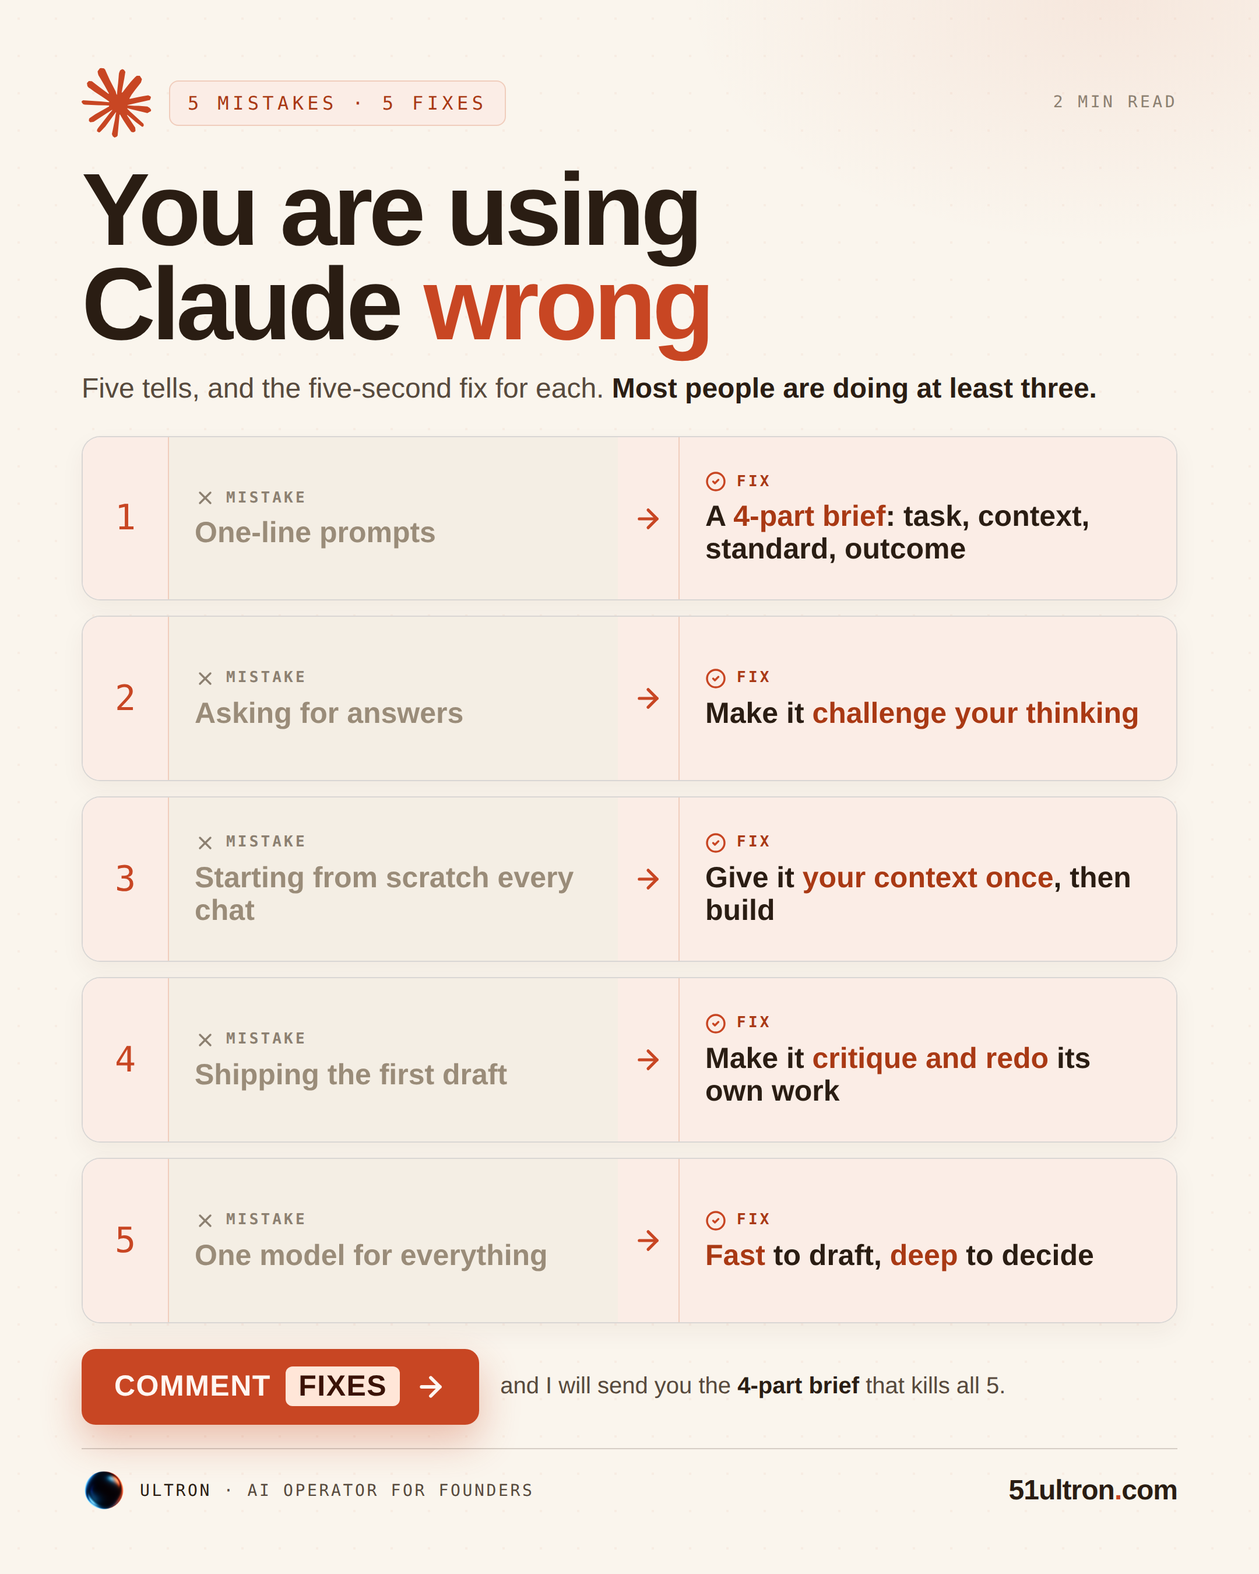
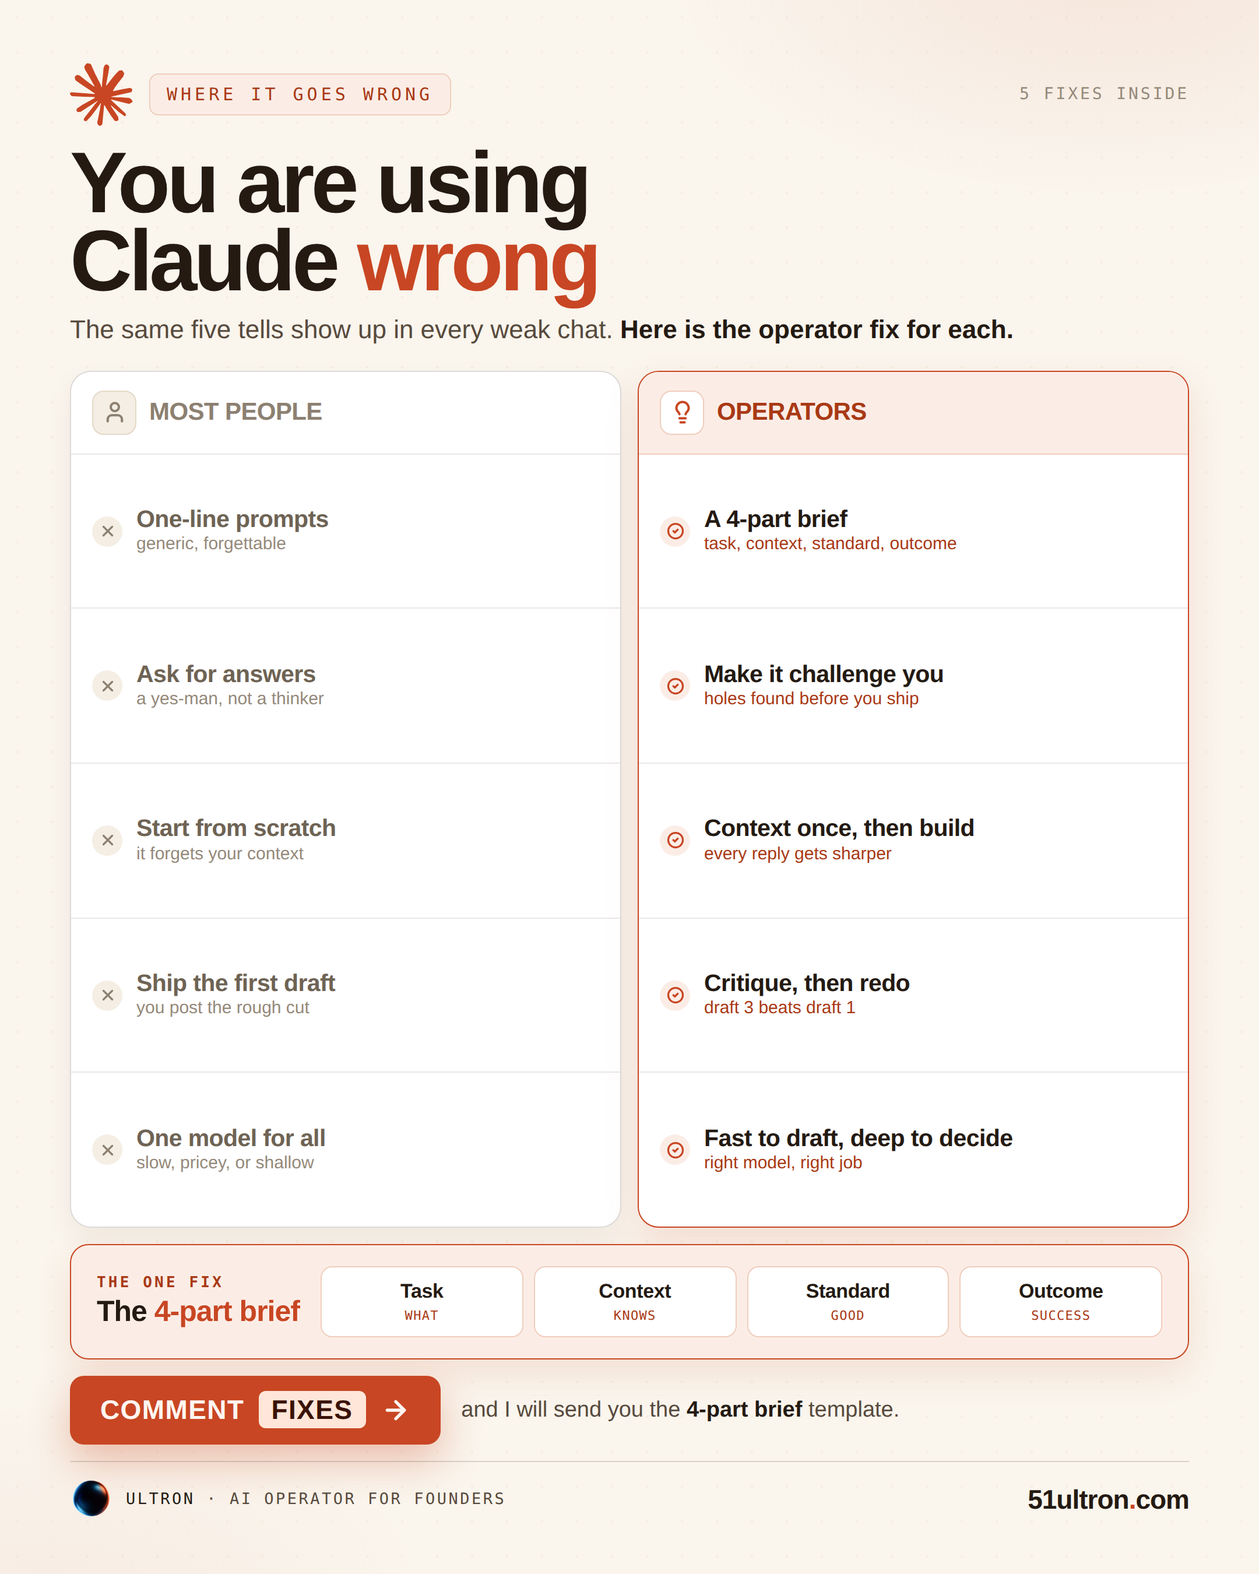
viral #1 infographic: rebuild to the master-claude richness bar (Design Architect)
The split-row version read flat/weak next to the existing master-claude infographic. Rebuilt
as a color-coded two-column comparison (Most people vs Operators) in packed white cards with
bold + payoff per row, plus a featured 4-part-brief band. Premium depth, dense, varied - light
REALNUMBERS. This is the design bar for #2-#5.

https://claude.ai/code/session_018fS7xMwDiJUxoNS3zo3BKw

diff --git a/content/claude-mistakes-editorial45-infographic.html b/content/claude-mistakes-editorial45-infographic.html
@@ -2,119 +2,128 @@
 <html lang="en">
 <head>
 <meta charset="UTF-8">
-<title>You're using Claude wrong - infographic - TikTok editorial 4:5 1080x1350 (light)</title>
+<title>You're using Claude wrong - infographic - TikTok editorial 4:5 1080x1350 (light, v2)</title>
 <style>
 @import 'https://fonts.googleapis.com/css2?family=DM+Sans:opsz,wght@9..40,400;9..40,500;9..40,600;9..40,700;9..40,800;9..40,900&family=DM+Mono:wght@400;500&display=swap';
-/* VIRAL #1 - "You're using Claude wrong" (5 mistakes -> 5 fixes). LIGHT / REALNUMBERS system
-   (cream + coral, white cards) to match the master-claude infographic. BESPOKE split-row layout
-   (mistake | arrow | fix) - distinct from the master-claude masonry. Coral = fix, muted = mistake
-   (no green). TikTok editorial 4:5, 1080x1350. DM Sans / DM Mono. The carousel ships in Dark Ultron. */
-:root{--cream:#FAF5ED;--cream-2:#F3EADD;--card:#FFFFFF;--ink:#2A1D13;--ink-2:#574A3D;--mut:#8C8071;
+/* VIRAL #1 v2 - "You're using Claude wrong". LIGHT / REALNUMBERS, rebuilt to the master-claude
+   richness bar: color-coded two-column comparison (MOST PEOPLE vs OPERATORS) in white cards with
+   per-item icons + payoffs, plus a featured 4-part-brief band. Premium depth, dense, varied.
+   Pure Claude. TikTok editorial 4:5, 1080x1350. DM Sans / DM Mono. Carousel ships dark. */
+:root{--cream:#FAF5ED;--cream-2:#F3EADD;--card:#FFFFFF;--ink:#241A12;--ink-2:#574A3D;--mut:#94897A;
 --org:#C84623;--org-deep:#A93914;--org-soft:#D2541F;
---rule:rgba(42,29,19,.11);--rule-2:rgba(42,29,19,.18);
---coral-bg:#FBEDE6;--coral-bd:#F0CDBC;--mist-bg:#F4EEE4;}
+--rule:rgba(36,26,18,.10);--rule-2:rgba(36,26,18,.16);
+--miss-bg:#F4EEE4;--miss-bd:#E4D8C6;--miss-tx:#8C8071;
+--coral-bg:#FBEDE6;--coral-bd:#F0CDBC;--snip:#FCF6F0;}
 *{margin:0;padding:0;box-sizing:border-box;}
 body{background:#0c0a09;display:flex;justify-content:center;padding:30px 0;font-family:'DM Sans',sans-serif;-webkit-font-smoothing:antialiased;}
 .slide{width:1080px;height:1350px;position:relative;overflow:hidden;background:var(--cream);color:var(--ink);
-  padding:58px 70px 52px;display:flex;flex-direction:column;}
+  padding:54px 60px 46px;display:flex;flex-direction:column;}
 .slide::before{content:'';position:absolute;inset:0;pointer-events:none;z-index:0;
-  background-image:radial-gradient(rgba(200,70,35,.05) 1.1px,transparent 1.2px);background-size:32px 32px;}
+  background-image:radial-gradient(rgba(200,70,35,.05) 1.1px,transparent 1.2px);background-size:30px 30px;}
 .slide::after{content:'';position:absolute;inset:0;pointer-events:none;z-index:0;
-  background:radial-gradient(ellipse 56% 26% at 88% 0%,rgba(200,70,35,.08),transparent 60%);}
+  background:radial-gradient(ellipse 58% 24% at 88% -2%,rgba(200,70,35,.09),transparent 60%),radial-gradient(ellipse 50% 20% at 4% 101%,rgba(200,70,35,.05),transparent 60%);}
 .slide>*{position:relative;z-index:2;}
-.spk{width:60px;height:60px;flex-shrink:0;}
-/* mast */
-.kick{display:flex;align-items:center;gap:15px;flex-shrink:0;}
-.kick .tag{font-family:'DM Mono',monospace;font-size:16px;font-weight:500;letter-spacing:.2em;color:var(--org-deep);
-  border:1px solid var(--coral-bd);background:var(--coral-bg);padding:9px 15px;border-radius:8px;}
-.kick .meta{margin-left:auto;font-family:'DM Mono',monospace;font-size:14px;letter-spacing:.16em;color:var(--mut);text-transform:uppercase;}
-/* hero */
-.h1{font-size:88px;font-weight:900;letter-spacing:-3.5px;line-height:.92;color:var(--ink);margin-top:22px;flex-shrink:0;}
+.spk{width:54px;height:54px;flex-shrink:0;}
+/* header */
+.kick{display:flex;align-items:center;gap:14px;flex-shrink:0;}
+.kick .tag{font-family:'DM Mono',monospace;font-size:15px;font-weight:500;letter-spacing:.2em;color:var(--org-deep);
+  border:1px solid var(--coral-bd);background:var(--coral-bg);padding:8px 14px;border-radius:8px;}
+.kick .meta{margin-left:auto;font-family:'DM Mono',monospace;font-size:14px;letter-spacing:.14em;color:var(--mut);text-transform:uppercase;}
+.h1{font-size:74px;font-weight:900;letter-spacing:-3px;line-height:.9;color:var(--ink);margin-top:16px;flex-shrink:0;}
 .h1 em{font-style:normal;color:var(--org);}
-.sub{font-size:24px;font-weight:500;color:var(--ink-2);line-height:1.32;margin-top:16px;flex-shrink:0;max-width:900px;}
+.sub{font-size:22px;font-weight:500;color:var(--ink-2);line-height:1.3;margin-top:12px;flex-shrink:0;}
 .sub b{color:var(--ink);font-weight:700;}
-/* split rows: mistake | arrow | fix */
-.rows{flex:1;display:flex;flex-direction:column;gap:13px;margin-top:24px;min-height:0;}
-.mrow{flex:1;display:flex;align-items:stretch;border:1px solid var(--rule-2);border-radius:16px;overflow:hidden;
-  background:var(--card);box-shadow:0 8px 20px rgba(80,40,20,.05);min-height:0;}
-.num{flex-shrink:0;width:74px;display:flex;align-items:center;justify-content:center;font-family:'DM Mono',monospace;
-  font-weight:500;font-size:30px;color:var(--org);background:var(--coral-bg);border-right:1px solid var(--coral-bd);}
-.side{flex:1;display:flex;flex-direction:column;justify-content:center;padding:16px 22px;min-width:0;}
-.side .lab{display:flex;align-items:center;gap:9px;font-family:'DM Mono',monospace;font-size:13px;font-weight:600;
-  letter-spacing:.16em;text-transform:uppercase;margin-bottom:7px;}
-.side .lab svg{width:18px;height:18px;stroke-width:2.3;fill:none;stroke-linecap:round;stroke-linejoin:round;}
-.side .tx{font-size:25px;font-weight:700;line-height:1.12;}
-.bad{background:var(--mist-bg);}
-.bad .lab{color:var(--mut);}.bad .lab svg{stroke:var(--mut);}
-.bad .tx{color:#9A8C79;}
-.fix{flex:1.12;background:var(--coral-bg);border-left:1px solid var(--coral-bd);}
-.fix .lab{color:var(--org-deep);}.fix .lab svg{stroke:var(--org);}
-.fix .tx{color:var(--ink);}
-.fix .tx b{color:var(--org-deep);font-weight:800;}
-.arrow{flex-shrink:0;width:52px;display:flex;align-items:center;justify-content:center;background:var(--coral-bg);}
-.arrow svg{width:26px;height:26px;stroke:var(--org);stroke-width:2.4;fill:none;stroke-linecap:round;stroke-linejoin:round;}
-/* cta */
-.cta{margin-top:22px;display:flex;align-items:center;gap:18px;flex-shrink:0;}
-.cta-chip{display:inline-flex;align-items:center;gap:13px;background:var(--org);border-radius:12px;padding:18px 28px;
-  box-shadow:0 14px 34px rgba(200,70,35,.32);}
-.cta-chip .t{font-size:25px;font-weight:900;letter-spacing:.03em;text-transform:uppercase;color:#FFF6F1;}
+/* two-column comparison */
+.cols{flex:1;display:grid;grid-template-columns:1fr 1fr;gap:14px;margin-top:20px;min-height:0;}
+.vbox{border-radius:18px;display:flex;flex-direction:column;overflow:hidden;min-height:0;box-shadow:0 10px 24px rgba(80,40,20,.06);}
+.vbox.miss{background:var(--card);border:1px solid var(--rule-2);}
+.vbox.win{background:var(--card);border:1.5px solid var(--org);box-shadow:0 12px 30px rgba(200,70,35,.13);}
+.vh{flex-shrink:0;display:flex;align-items:center;gap:11px;padding:16px 18px;border-bottom:1px solid var(--rule);}
+.vbox.win .vh{background:var(--coral-bg);border-bottom-color:var(--coral-bd);}
+.vh .vn{width:38px;height:38px;border-radius:10px;display:flex;align-items:center;justify-content:center;flex-shrink:0;}
+.vh .vn svg{width:21px;height:21px;stroke-width:2.3;fill:none;stroke-linecap:round;stroke-linejoin:round;}
+.miss .vh .vn{background:var(--miss-bg);border:1px solid var(--miss-bd);}.miss .vh .vn svg{stroke:var(--miss-tx);}
+.win .vh .vn{background:#fff;border:1px solid var(--coral-bd);}.win .vh .vn svg{stroke:var(--org);}
+.vh .vt{font-size:21px;font-weight:900;letter-spacing:-.3px;text-transform:uppercase;}
+.miss .vh .vt{color:var(--miss-tx);}.win .vh .vt{color:var(--org-deep);}
+.vlist{flex:1;display:flex;flex-direction:column;min-height:0;}
+.vit{flex:1;display:flex;align-items:center;gap:12px;padding:0 18px;border-bottom:1px solid var(--rule);}
+.vit:last-child{border-bottom:0;}
+.vit .d{width:26px;height:26px;border-radius:50%;flex-shrink:0;display:flex;align-items:center;justify-content:center;}
+.vit .d svg{width:15px;height:15px;stroke-width:2.6;fill:none;stroke-linecap:round;stroke-linejoin:round;}
+.miss .vit .d{background:var(--miss-bg);}.miss .vit .d svg{stroke:var(--miss-tx);}
+.win .vit .d{background:var(--coral-bg);}.win .vit .d svg{stroke:var(--org);}
+.vit .vc{min-width:0;}
+.vit .vc b{display:block;font-size:20.5px;font-weight:800;line-height:1.05;letter-spacing:-.3px;}
+.vit .vc span{display:block;font-size:15px;font-weight:500;line-height:1.12;margin-top:3px;}
+.miss .vit .vc b{color:#6E6354;}.miss .vit .vc span{color:var(--mut);}
+.win .vit .vc b{color:var(--ink);}.win .vit .vc span{color:var(--org-deep);}
+/* featured 4-part brief band */
+.feat{flex-shrink:0;margin-top:14px;display:flex;align-items:center;gap:18px;border:1.5px solid var(--org);border-radius:16px;
+  background:var(--coral-bg);padding:18px 22px;box-shadow:0 12px 30px rgba(200,70,35,.12);}
+.feat .fl{flex-shrink:0;}
+.feat .fk{font-family:'DM Mono',monospace;font-size:13px;font-weight:600;letter-spacing:.16em;text-transform:uppercase;color:var(--org-deep);}
+.feat .ft{font-size:25px;font-weight:900;letter-spacing:-.5px;color:var(--ink);margin-top:3px;}
+.feat .ft em{font-style:normal;color:var(--org);}
+.feat .chips{flex:1;display:flex;gap:9px;}
+.feat .chip{flex:1;background:#fff;border:1px solid var(--coral-bd);border-radius:10px;padding:11px 10px;text-align:center;}
+.feat .chip b{display:block;font-size:17px;font-weight:800;color:var(--ink);letter-spacing:-.2px;}
+.feat .chip span{display:block;font-family:'DM Mono',monospace;font-size:11px;letter-spacing:.06em;text-transform:uppercase;color:var(--org-deep);margin-top:4px;}
+/* cta + footer */
+.cta{margin-top:14px;display:flex;align-items:center;gap:18px;flex-shrink:0;}
+.cta-chip{display:inline-flex;align-items:center;gap:13px;background:var(--org);border-radius:12px;padding:16px 26px;box-shadow:0 14px 34px rgba(200,70,35,.32);}
+.cta-chip .t{font-size:23px;font-weight:900;letter-spacing:.03em;text-transform:uppercase;color:#FFF6F1;}
 .cta-chip .t em{font-style:normal;background:#FFE6D8;color:#3A1206;padding:3px 11px;border-radius:6px;margin-left:5px;}
-.cta-chip svg{width:27px;height:27px;stroke:#FFF6F1;stroke-width:2.6;fill:none;stroke-linecap:round;stroke-linejoin:round;}
-.cta .note{font-size:20px;color:var(--ink-2);font-weight:500;line-height:1.25;}
-.cta .note b{color:var(--ink);font-weight:700;}
-/* footer */
-.ftr{margin-top:20px;padding-top:17px;border-top:1.5px solid var(--rule-2);display:flex;align-items:center;justify-content:space-between;gap:16px;flex-shrink:0;}
-.ftr-l{display:flex;align-items:center;gap:12px;min-width:0;}
-.ftr-l img{width:38px;height:38px;border-radius:50%;flex-shrink:0;object-fit:cover;}
-.ftr-tx{font-family:'DM Mono',monospace;font-size:14px;font-weight:400;letter-spacing:.13em;text-transform:uppercase;color:var(--ink-2);white-space:nowrap;}
-.ftr-tx b{color:var(--ink);font-weight:500;}
-.ftr-url{font-size:24px;font-weight:900;letter-spacing:-.5px;color:var(--ink);flex-shrink:0;}
-.ftr-url em{font-style:normal;color:var(--org);}
+.cta-chip svg{width:25px;height:25px;stroke:#FFF6F1;stroke-width:2.6;fill:none;stroke-linecap:round;stroke-linejoin:round;}
+.cta .note{font-size:19px;color:var(--ink-2);font-weight:500;line-height:1.22;}.cta .note b{color:var(--ink);font-weight:700;}
+.ftr{margin-top:14px;padding-top:14px;border-top:1.5px solid var(--rule-2);display:flex;align-items:center;justify-content:space-between;gap:16px;flex-shrink:0;}
+.ftr-l{display:flex;align-items:center;gap:12px;min-width:0;}.ftr-l img{width:36px;height:36px;border-radius:50%;flex-shrink:0;object-fit:cover;}
+.ftr-tx{font-family:'DM Mono',monospace;font-size:13.5px;font-weight:400;letter-spacing:.13em;text-transform:uppercase;color:var(--ink-2);white-space:nowrap;}.ftr-tx b{color:var(--ink);font-weight:500;}
+.ftr-url{font-size:23px;font-weight:900;letter-spacing:-.5px;color:var(--ink);flex-shrink:0;}.ftr-url em{font-style:normal;color:var(--org);}
 </style>
 </head>
 <body>
 <div class="slide">
   <div class="kick">
     <svg class="spk" viewBox="0 0 1200 1200"><path fill="#C84623" d="M 233.96 800.21 L 468.64 668.54 L 472.59 657.10 L 468.64 650.74 L 457.21 650.74 L 417.99 648.32 L 283.89 644.70 L 167.60 639.87 L 54.93 633.83 L 26.58 627.79 L 0 592.75 L 2.74 575.28 L 26.58 559.25 L 60.72 562.23 L 136.19 567.38 L 249.42 575.19 L 331.57 580.03 L 453.26 592.67 L 472.59 592.67 L 475.33 584.86 L 468.72 580.03 L 463.57 575.19 L 346.39 495.79 L 219.54 411.87 L 153.10 363.54 L 117.18 339.06 L 99.06 316.11 L 91.25 266.01 L 123.87 230.09 L 167.68 233.07 L 178.87 236.05 L 223.25 270.20 L 318.04 343.57 L 441.83 434.74 L 459.95 449.80 L 467.19 444.64 L 468.08 441.02 L 459.95 427.41 L 392.62 305.72 L 320.78 181.93 L 288.81 130.63 L 280.35 99.87 C 277.37 87.22 275.19 76.59 275.19 63.62 L 312.32 13.21 L 332.86 6.60 L 382.39 13.21 L 403.25 31.33 L 434.01 101.72 L 483.87 212.54 L 561.18 363.22 L 583.81 407.92 L 595.89 449.32 L 600.40 461.96 L 608.21 461.96 L 608.21 454.71 L 614.58 369.83 L 626.34 265.61 L 637.77 131.52 L 641.72 93.75 L 660.40 48.48 L 697.53 24.00 L 726.52 37.85 L 750.36 72 L 747.06 94.07 L 732.89 186.20 L 705.10 330.52 L 686.98 427.17 L 697.53 427.17 L 709.61 415.09 L 758.50 350.17 L 840.64 247.49 L 876.89 206.74 L 919.17 161.72 L 946.31 140.30 L 997.61 140.30 L 1035.38 196.43 L 1018.47 254.42 L 965.64 321.42 L 921.83 378.20 L 859.01 462.77 L 819.79 530.42 L 823.41 535.81 L 832.75 534.93 L 974.66 504.72 L 1051.33 490.87 L 1142.82 475.17 L 1184.21 494.50 L 1188.72 514.15 L 1172.46 554.34 L 1074.60 578.50 L 959.84 601.45 L 788.94 641.88 L 786.85 643.41 L 789.26 646.39 L 866.26 653.64 L 899.19 655.41 L 979.81 655.41 L 1129.93 666.60 L 1169.15 692.54 L 1192.67 724.27 L 1188.72 748.43 L 1128.32 779.19 L 1046.82 759.87 L 856.59 714.60 L 791.36 698.34 L 782.34 698.34 L 782.34 703.73 L 836.70 756.89 L 936.32 846.85 L 1061.07 962.82 L 1067.44 991.49 L 1051.41 1014.12 L 1034.50 1011.70 L 924.89 929.23 L 882.60 892.11 L 786.85 811.49 L 780.48 811.49 L 780.48 819.95 L 802.55 852.24 L 919.09 1027.41 L 925.13 1081.13 L 916.67 1098.60 L 886.47 1109.15 L 853.29 1103.11 L 785.07 1007.36 L 714.68 899.52 L 657.91 802.87 L 650.98 806.82 L 617.48 1167.70 L 601.77 1186.15 L 565.53 1200 L 535.33 1177.05 L 519.30 1139.92 L 535.33 1066.55 L 554.66 970.79 L 570.36 894.68 L 584.54 800.13 L 592.99 768.72 L 592.43 766.63 L 585.50 767.52 L 514.23 865.37 L 405.83 1011.87 L 320.05 1103.68 L 299.52 1111.81 L 263.92 1093.37 L 267.22 1060.43 L 287.11 1031.11 L 405.83 880.11 L 477.42 786.52 L 523.65 732.48 L 523.33 724.67 L 520.59 724.67 L 205.29 929.40 L 149.15 936.64 L 124.99 914.01 L 127.97 876.89 L 139.41 864.81 L 234.20 799.57 Z"/></svg>
-    <span class="tag">5 MISTAKES &middot; 5 FIXES</span><span class="meta">2 min read</span>
+    <span class="tag">WHERE IT GOES WRONG</span><span class="meta">5 fixes inside</span>
   </div>
   <div class="h1">You are using<br>Claude <em>wrong</em></div>
-  <div class="sub">Five tells, and the five-second fix for each. <b>Most people are doing at least three.</b></div>
-  <div class="rows">
-    <div class="mrow">
-      <div class="num">1</div>
-      <div class="side bad"><div class="lab"><svg viewBox="0 0 24 24"><path d="M18 6 6 18"/><path d="m6 6 12 12"/></svg>Mistake</div><div class="tx">One-line prompts</div></div>
-      <div class="arrow"><svg viewBox="0 0 24 24"><path d="M5 12h14"/><path d="m12 5 7 7-7 7"/></svg></div>
-      <div class="side fix"><div class="lab"><svg viewBox="0 0 24 24"><circle cx="12" cy="12" r="10"/><path d="m9 12 2 2 4-4"/></svg>Fix</div><div class="tx">A <b>4-part brief</b>: task, context, standard, outcome</div></div>
+  <div class="sub">The same five tells show up in every weak chat. <b>Here is the operator fix for each.</b></div>
+  <div class="cols">
+    <div class="vbox miss">
+      <div class="vh"><span class="vn"><svg viewBox="0 0 24 24"><path d="M19 21v-2a4 4 0 0 0-4-4H9a4 4 0 0 0-4 4v2"/><circle cx="12" cy="7" r="4"/></svg></span><span class="vt">Most people</span></div>
+      <div class="vlist">
+        <div class="vit"><span class="d"><svg viewBox="0 0 24 24"><path d="M18 6 6 18"/><path d="m6 6 12 12"/></svg></span><span class="vc"><b>One-line prompts</b><span>generic, forgettable</span></span></div>
+        <div class="vit"><span class="d"><svg viewBox="0 0 24 24"><path d="M18 6 6 18"/><path d="m6 6 12 12"/></svg></span><span class="vc"><b>Ask for answers</b><span>a yes-man, not a thinker</span></span></div>
+        <div class="vit"><span class="d"><svg viewBox="0 0 24 24"><path d="M18 6 6 18"/><path d="m6 6 12 12"/></svg></span><span class="vc"><b>Start from scratch</b><span>it forgets your context</span></span></div>
+        <div class="vit"><span class="d"><svg viewBox="0 0 24 24"><path d="M18 6 6 18"/><path d="m6 6 12 12"/></svg></span><span class="vc"><b>Ship the first draft</b><span>you post the rough cut</span></span></div>
+        <div class="vit"><span class="d"><svg viewBox="0 0 24 24"><path d="M18 6 6 18"/><path d="m6 6 12 12"/></svg></span><span class="vc"><b>One model for all</b><span>slow, pricey, or shallow</span></span></div>
+      </div>
     </div>
-    <div class="mrow">
-      <div class="num">2</div>
-      <div class="side bad"><div class="lab"><svg viewBox="0 0 24 24"><path d="M18 6 6 18"/><path d="m6 6 12 12"/></svg>Mistake</div><div class="tx">Asking for answers</div></div>
-      <div class="arrow"><svg viewBox="0 0 24 24"><path d="M5 12h14"/><path d="m12 5 7 7-7 7"/></svg></div>
-      <div class="side fix"><div class="lab"><svg viewBox="0 0 24 24"><circle cx="12" cy="12" r="10"/><path d="m9 12 2 2 4-4"/></svg>Fix</div><div class="tx">Make it <b>challenge your thinking</b></div></div>
+    <div class="vbox win">
+      <div class="vh"><span class="vn"><svg viewBox="0 0 24 24"><path d="M15 14c.2-1 .7-1.7 1.5-2.5 1-.9 1.5-2.2 1.5-3.5A6 6 0 0 0 6 8c0 1 .2 2.2 1.5 3.5.7.7 1.3 1.5 1.5 2.5"/><path d="M9 18h6"/><path d="M10 22h4"/></svg></span><span class="vt">Operators</span></div>
+      <div class="vlist">
+        <div class="vit"><span class="d"><svg viewBox="0 0 24 24"><circle cx="12" cy="12" r="10"/><path d="m9 12 2 2 4-4"/></svg></span><span class="vc"><b>A 4-part brief</b><span>task, context, standard, outcome</span></span></div>
+        <div class="vit"><span class="d"><svg viewBox="0 0 24 24"><circle cx="12" cy="12" r="10"/><path d="m9 12 2 2 4-4"/></svg></span><span class="vc"><b>Make it challenge you</b><span>holes found before you ship</span></span></div>
+        <div class="vit"><span class="d"><svg viewBox="0 0 24 24"><circle cx="12" cy="12" r="10"/><path d="m9 12 2 2 4-4"/></svg></span><span class="vc"><b>Context once, then build</b><span>every reply gets sharper</span></span></div>
+        <div class="vit"><span class="d"><svg viewBox="0 0 24 24"><circle cx="12" cy="12" r="10"/><path d="m9 12 2 2 4-4"/></svg></span><span class="vc"><b>Critique, then redo</b><span>draft 3 beats draft 1</span></span></div>
+        <div class="vit"><span class="d"><svg viewBox="0 0 24 24"><circle cx="12" cy="12" r="10"/><path d="m9 12 2 2 4-4"/></svg></span><span class="vc"><b>Fast to draft, deep to decide</b><span>right model, right job</span></span></div>
+      </div>
     </div>
-    <div class="mrow">
-      <div class="num">3</div>
-      <div class="side bad"><div class="lab"><svg viewBox="0 0 24 24"><path d="M18 6 6 18"/><path d="m6 6 12 12"/></svg>Mistake</div><div class="tx">Starting from scratch every chat</div></div>
-      <div class="arrow"><svg viewBox="0 0 24 24"><path d="M5 12h14"/><path d="m12 5 7 7-7 7"/></svg></div>
-      <div class="side fix"><div class="lab"><svg viewBox="0 0 24 24"><circle cx="12" cy="12" r="10"/><path d="m9 12 2 2 4-4"/></svg>Fix</div><div class="tx">Give it <b>your context once</b>, then build</div></div>
-    </div>
-    <div class="mrow">
-      <div class="num">4</div>
-      <div class="side bad"><div class="lab"><svg viewBox="0 0 24 24"><path d="M18 6 6 18"/><path d="m6 6 12 12"/></svg>Mistake</div><div class="tx">Shipping the first draft</div></div>
-      <div class="arrow"><svg viewBox="0 0 24 24"><path d="M5 12h14"/><path d="m12 5 7 7-7 7"/></svg></div>
-      <div class="side fix"><div class="lab"><svg viewBox="0 0 24 24"><circle cx="12" cy="12" r="10"/><path d="m9 12 2 2 4-4"/></svg>Fix</div><div class="tx">Make it <b>critique and redo</b> its own work</div></div>
-    </div>
-    <div class="mrow">
-      <div class="num">5</div>
-      <div class="side bad"><div class="lab"><svg viewBox="0 0 24 24"><path d="M18 6 6 18"/><path d="m6 6 12 12"/></svg>Mistake</div><div class="tx">One model for everything</div></div>
-      <div class="arrow"><svg viewBox="0 0 24 24"><path d="M5 12h14"/><path d="m12 5 7 7-7 7"/></svg></div>
-      <div class="side fix"><div class="lab"><svg viewBox="0 0 24 24"><circle cx="12" cy="12" r="10"/><path d="m9 12 2 2 4-4"/></svg>Fix</div><div class="tx"><b>Fast</b> to draft, <b>deep</b> to decide</div></div>
+  </div>
+  <div class="feat">
+    <div class="fl"><div class="fk">The one fix</div><div class="ft">The <em>4-part brief</em></div></div>
+    <div class="chips">
+      <div class="chip"><b>Task</b><span>what</span></div>
+      <div class="chip"><b>Context</b><span>knows</span></div>
+      <div class="chip"><b>Standard</b><span>good</span></div>
+      <div class="chip"><b>Outcome</b><span>success</span></div>
     </div>
   </div>
   <div class="cta">
     <div class="cta-chip"><span class="t">Comment <em>FIXES</em></span><svg viewBox="0 0 24 24"><path d="M5 12h14"/><path d="m12 5 7 7-7 7"/></svg></div>
-    <div class="note">and I will send you the <b>4-part brief</b> that kills all 5.</div>
+    <div class="note">and I will send you the <b>4-part brief</b> template.</div>
   </div>
   <div class="ftr">
     <div class="ftr-l"><img src="__LOGO_URI__" alt="Ultron"><span class="ftr-tx"><b>ULTRON</b> &middot; AI OPERATOR FOR FOUNDERS</span></div>
